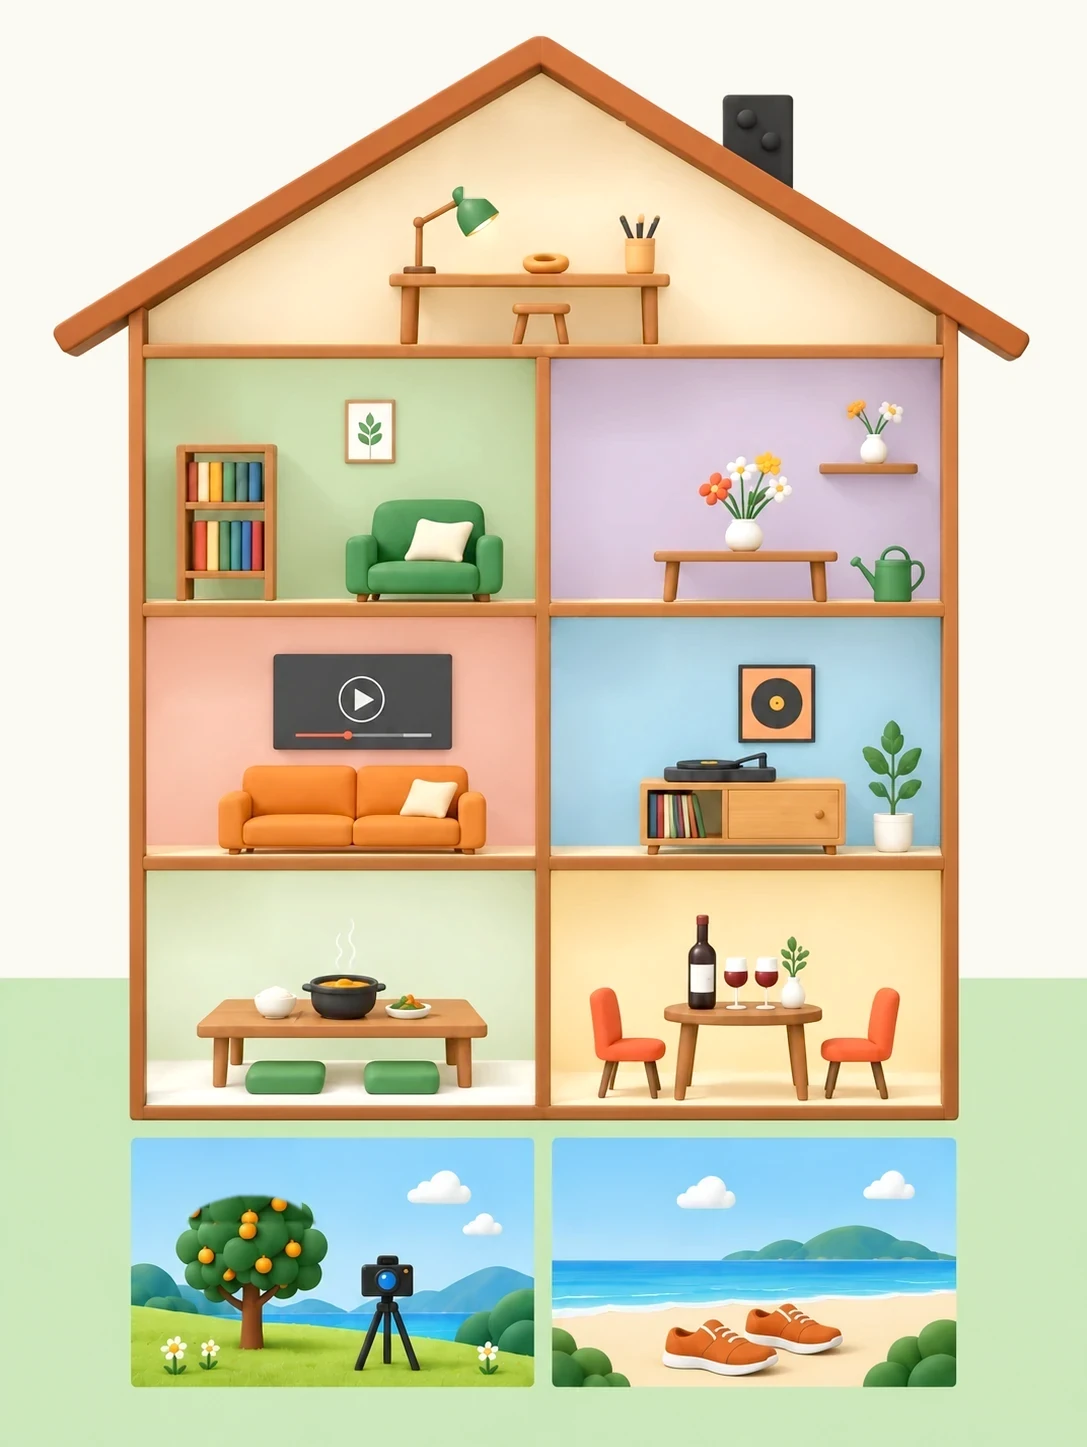
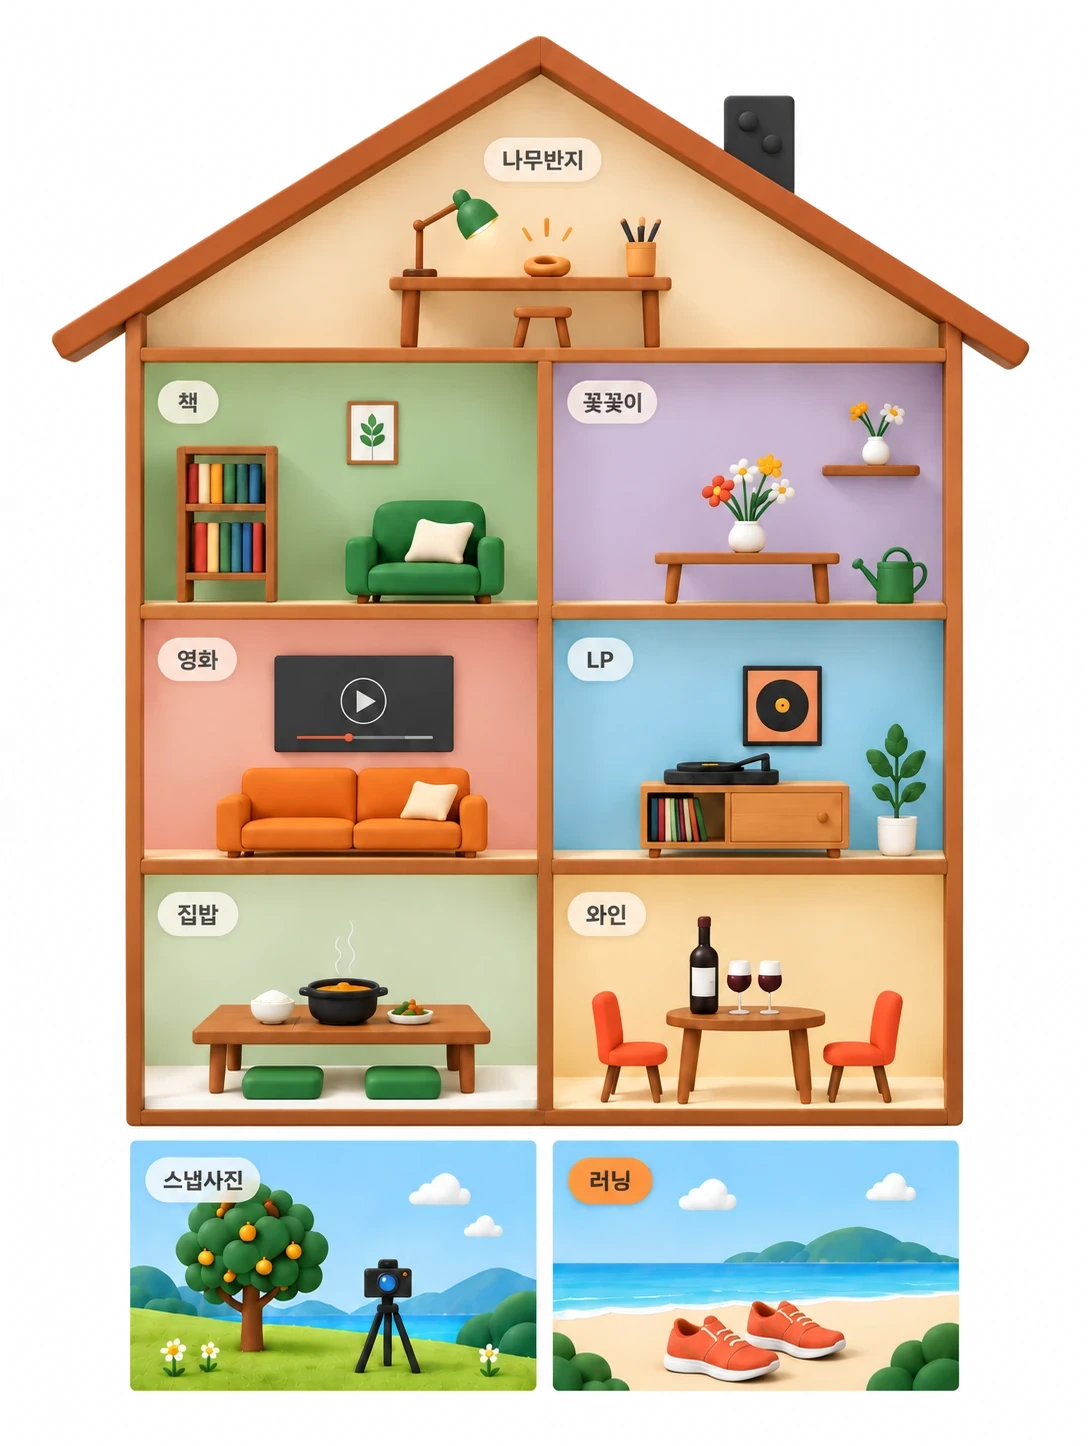
ROOM TOUR 집 새 시안(배경 투명으로 오려 기존 크림 · 잔디 배경 유지) · 인스타 게시물 사진 휴대폰에서 화면 폭 가득

diff --git a/src/pages/HousePage.tsx b/src/pages/HousePage.tsx
@@ -15,21 +15,21 @@ type View = 'house' | 'list';
 const VIEW_KEY = 'jejulog:house-view';
 
 /**
- * 그림(1087 × 1447) 속 방 자리 · 이름표 자리 — 그림 픽셀 기준
- * room: 방 네모 [x1, y1, x2, y2] / tag: 이름표 자리 [x, y] — 그림에 있던 이름표 자리 (center — 가운데 기준)
+ * 그림(1088 × 1446, 바깥 배경은 투명) 속 방 자리 · 이름표 자리 — 그림 픽셀 기준
+ * room: 방 네모 [x1, y1, x2, y2] / tag: 그림 속 이름표를 덮는 자리 [x, y, 최소 너비] (center — 가운데 기준)
  */
-const IMG_W = 1087;
-const IMG_H = 1447;
-const SPOTS: { id: ProgramId; room: [number, number, number, number]; tag: [number, number]; center?: boolean }[] = [
-  { id: 'craft', room: [146, 70, 941, 345], tag: [544, 124], center: true },
-  { id: 'book', room: [146, 358, 535, 603], tag: [154, 369] },
-  { id: 'flower', room: [550, 358, 941, 603], tag: [561, 369] },
-  { id: 'cinema', room: [146, 617, 535, 857], tag: [155, 628] },
-  { id: 'lp', room: [550, 617, 941, 857], tag: [561, 628] },
-  { id: 'homemeal', room: [146, 870, 535, 1106], tag: [154, 882] },
-  { id: 'wine', room: [550, 870, 941, 1106], tag: [561, 882] },
-  { id: 'camping', room: [131, 1138, 534, 1387], tag: [142, 1144] },
-  { id: 'running', room: [552, 1138, 955, 1387], tag: [560, 1144] },
+const IMG_W = 1088;
+const IMG_H = 1446;
+const SPOTS: { id: ProgramId; room: [number, number, number, number]; tag: [number, number, number]; center?: boolean }[] = [
+  { id: 'craft', room: [144, 75, 943, 348], tag: [543, 135, 122], center: true },
+  { id: 'book', room: [144, 362, 537, 605], tag: [155, 378, 66] },
+  { id: 'flower', room: [552, 362, 943, 605], tag: [565, 378, 95] },
+  { id: 'cinema', room: [144, 620, 537, 859], tag: [155, 636, 84] },
+  { id: 'lp', room: [552, 620, 943, 859], tag: [566, 636, 70] },
+  { id: 'homemeal', room: [144, 874, 537, 1109], tag: [155, 890, 85] },
+  { id: 'wine', room: [552, 874, 943, 1109], tag: [565, 890, 83] },
+  { id: 'camping', room: [130, 1140, 536, 1391], tag: [143, 1156, 120] },
+  { id: 'running', room: [553, 1140, 958, 1391], tag: [566, 1155, 89] },
 ];
 const pct = (v: number, of: number) => `${(v / of) * 100}%`;
 
@@ -103,7 +103,7 @@ export function HousePage({ embedded = false }: { embedded?: boolean }) {
       <nav className="house3d" aria-label={ui.house.houseAria}>
         <div className="house3d__frame">
           <img className="house3d__img" src={houseUrl} width={IMG_W} height={IMG_H} alt={ui.house.houseAria} loading="lazy" decoding="async" />
-          {SPOTS.map(({ id, room: [x1, y1, x2, y2], tag: [tx, ty], center }) => {
+          {SPOTS.map(({ id, room: [x1, y1, x2, y2], tag: [tx, ty, tw], center }) => {
             const e = experienceById[id];
             const place = programById[id].report.place.name;
             return (
@@ -115,11 +115,11 @@ export function HousePage({ embedded = false }: { embedded?: boolean }) {
                   data-track={`house_${id}`}
                   style={{ left: pct(x1, IMG_W), top: pct(y1, IMG_H), width: pct(x2 - x1, IMG_W), height: pct(y2 - y1, IMG_H) }}
                 />
-                {/* 이름표 — 그림에서 지운 자리에 HTML 로 (언어 전환 · 호버 때 주황) */}
+                {/* 이름표 — 그림 속 이름표 위에 같은 크기로 덮음 (언어 전환 · 호버 때 주황) */}
                 <span
                   className={`house3d__tag${center ? ' house3d__tag--center' : ''}`}
                   aria-hidden="true"
-                  style={{ left: `calc(var(--u) * ${tx})`, top: `calc(var(--u) * ${ty})` }}
+                  style={{ left: `calc(var(--u) * ${tx})`, top: `calc(var(--u) * ${ty})`, minWidth: `calc(var(--u) * ${tw})` }}
                 >
                   <span>{e.label}</span>
                   <span className="house3d__place">{place}</span>

diff --git a/src/styles/house.css b/src/styles/house.css
@@ -162,26 +162,21 @@
 }
 
 /* ── 집 그림 (시안 한 장 그대로) ─────────────────────────────────────────
-   그림 1087 × 1447 — --u 는 그림 1픽셀이 화면에서 차지하는 크기.
-   그림 위쪽 배경은 페이지 색, 땅(그림 y 978부터)은 그림 속 잔디색으로 화면 양옆까지 이어 붙입니다. */
+   그림 1088 × 1446 — --u 는 그림 1픽셀이 화면에서 차지하는 크기. 그림 바깥 배경은 투명.
+   뒤 배경은 페이지 색, 땅(그림 y 978부터)은 잔디색으로 화면 양옆까지 깔아 둡니다. */
 .house3d {
-  --w: min(660px, 100vw); --u: calc(var(--w) / 1087); --pt: 8px;
+  --w: min(660px, 100vw); --u: calc(var(--w) / 1088); --pt: 8px;
   padding: var(--pt) 0 clamp(48px, 8vh, 88px);
   background: linear-gradient(to bottom, var(--bg) calc(var(--pt) + var(--u) * 978), #CDE8BD 0);
 }
 .house3d__frame { position: relative; width: var(--w); margin-inline: auto; }
-/* 양옆 가장자리(빈 배경 · 잔디)만 아주 살짝 흐려 바깥 배경색과 이음매 없이 */
-.house3d__img {
-  display: block; width: 100%; height: auto;
-  -webkit-mask-image: linear-gradient(to right, transparent, #000 3.5%, #000 96.5%, transparent);
-  mask-image: linear-gradient(to right, transparent, #000 3.5%, #000 96.5%, transparent);
-}
+.house3d__img { display: block; width: 100%; height: auto; }
 /* 방 — 투명 링크 (네모 테두리는 키보드로 고를 때만) */
 .house3d__room { position: absolute; display: block; outline: none; -webkit-tap-highlight-color: transparent; }
 .house3d__room::after { content: ""; position: absolute; inset: 0; pointer-events: none; box-shadow: inset 0 0 0 0 #F39A2B; transition: box-shadow var(--t-hover) var(--ease); }
 .house3d__room:focus-visible::after { box-shadow: inset 0 0 0 3px #F39A2B; }
 /* 다락 — 지붕 박공 모양대로만 눌림 */
-.house3d__room--craft { clip-path: polygon(49.3% 0, 100% 87%, 100% 100%, 0 100%, 0 87%); }
+.house3d__room--craft { clip-path: polygon(49.4% 0, 100% 87.5%, 100% 100%, 0 100%, 0 87.5%); }
 /* 이름표 — 그림에서 지운 이름표 자리에 작은 흰 알약, 호버 때 메인 주황 */
 .house3d__tag {
   position: absolute; pointer-events: none;

diff --git a/src/styles/insta.css b/src/styles/insta.css
@@ -66,7 +66,9 @@
   .insta-modal { padding: 0; align-items: stretch; }
   .insta-modal__card { grid-template-columns: 1fr; grid-template-rows: auto minmax(0, 1fr) auto; width: 100%; max-height: none; height: 100%; border-radius: 0; overflow-y: auto; }
   .insta-modal__card { display: flex; flex-direction: column; }
-  .insta-modal__media img { max-height: 70vh; }
+  /* 휴대폰 — 사진을 화면 폭 가득, 원래 비율(4:5) 그대로 */
+  .insta-modal__media { flex: none; aspect-ratio: 4 / 5; }
+  .insta-modal__media img { width: 100%; height: 100%; object-fit: cover; }
   .insta-modal__side { border-left: 0; }
   .insta-modal__body { overflow: visible; }
   .insta-modal__close { top: 6px; right: 8px; color: #fff; text-shadow: 0 1px 4px rgba(0, 0, 0, .6); z-index: 1; }
